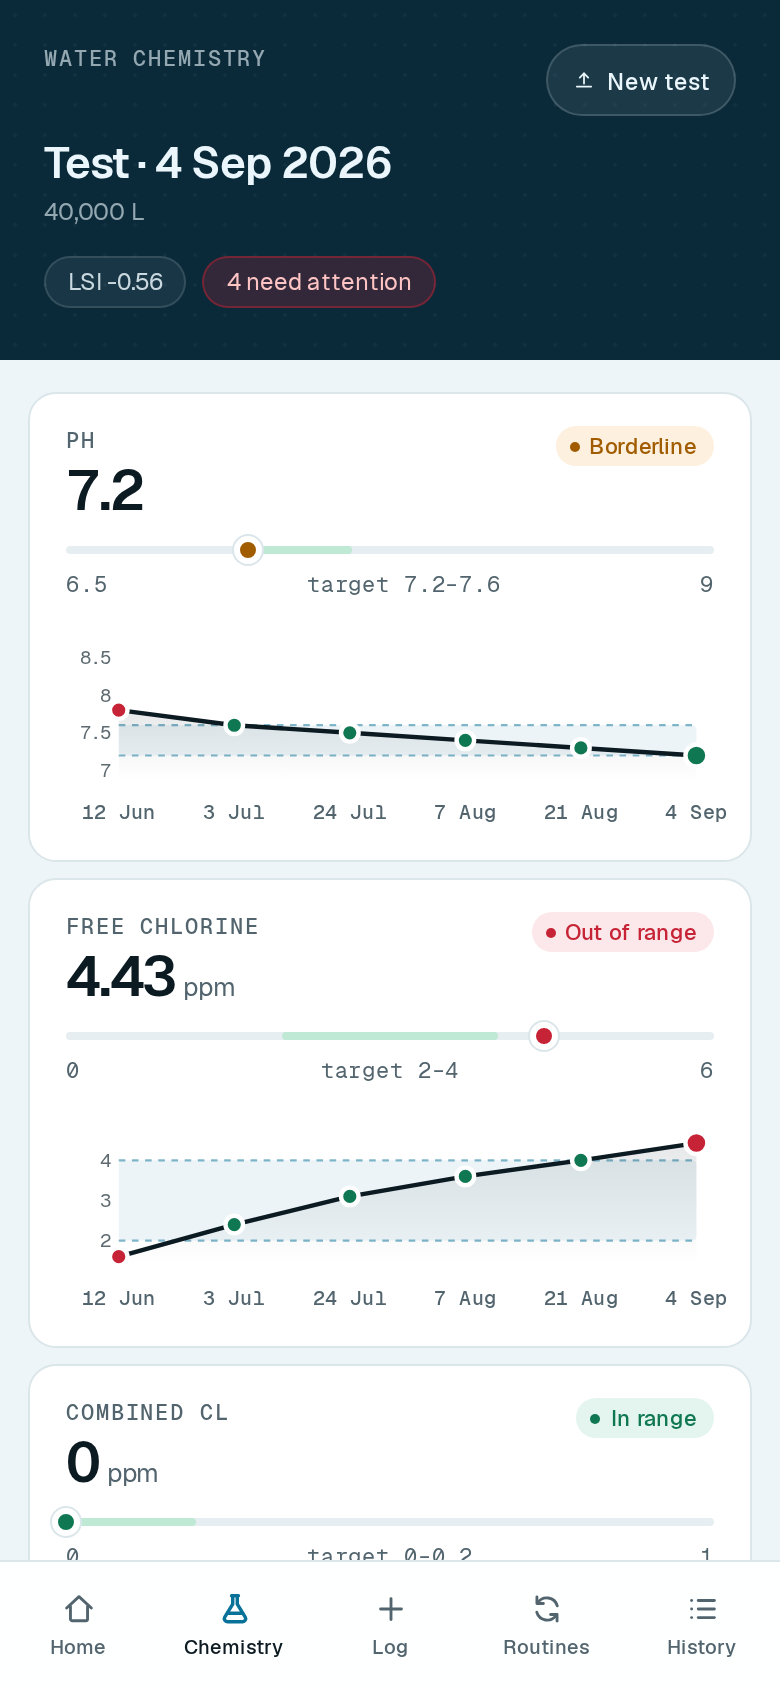
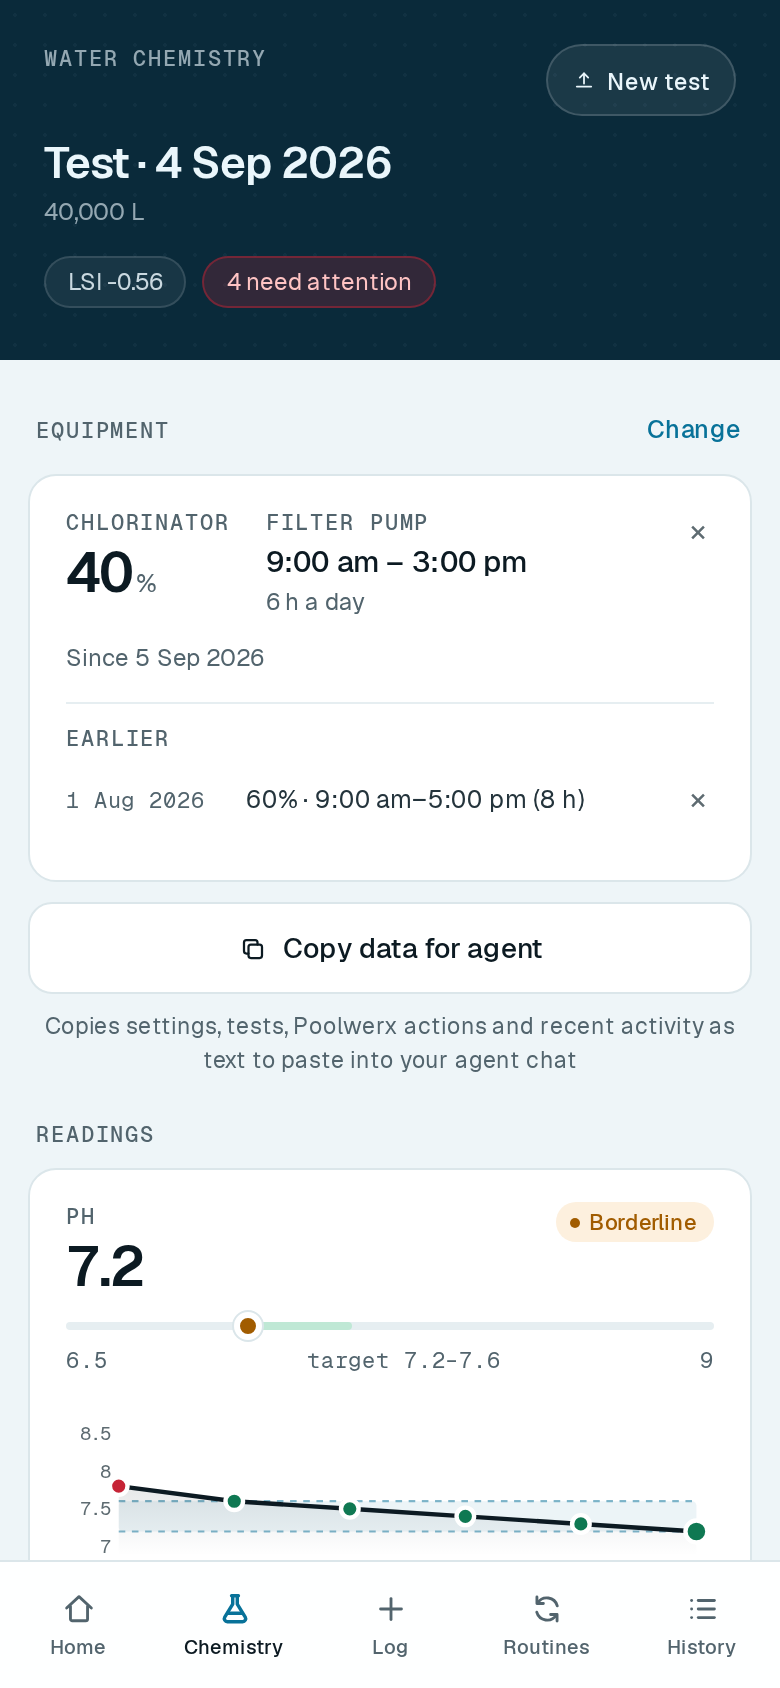
Retake README screenshots for v2.8
Shows the version bump and the new Equipment section on the Chemistry
screen, with sample chlorinator and filter settings.

Claude-Session: https://claude.ai/code/session_01LEm6yt5G7UfvhJk7zqNvjP

diff --git a/README.md b/README.md
@@ -12,7 +12,7 @@ recurring maintenance (routines), and keeps a full activity history.
 <table>
   <tr>
     <td align="center" valign="top" width="33%"><img src="docs/screenshots/home.png" width="250" alt="Home screen: last test date, count of things needing attention, pH trend over the last six tests, and the action list with due routines and Poolwerx recommendations"><br><b>Home</b><br>What needs doing, and the pH trend</td>
-    <td align="center" valign="top" width="33%"><img src="docs/screenshots/chemistry.png" width="250" alt="Chemistry screen: each reading against its target range, with a trend chart per metric"><br><b>Chemistry</b><br>Every reading against its target, with trends</td>
+    <td align="center" valign="top" width="33%"><img src="docs/screenshots/chemistry.png" width="250" alt="Chemistry screen: equipment settings (chlorinator output and filter pump times) with Copy data for agent, then each reading against its target range with a trend chart"><br><b>Chemistry</b><br>Equipment settings, and every reading against its target</td>
     <td align="center" valign="top" width="33%"><img src="docs/screenshots/routines.png" width="250" alt="Routines screen: reminders toggle and recurring tasks such as running the pool cleaner, water tests, weekly acid and backwashing"><br><b>Routines</b><br>Recurring tasks and reminders</td>
   </tr>
   <tr>
@@ -22,8 +22,9 @@ recurring maintenance (routines), and keeps a full activity history.
   </tr>
 </table>
 
-Taken from the built app at phone size (390 × 844). The latest test is the
-published 4 Sep 2026 report; the earlier tests and log entries are sample data.
+Taken from the built app (v2.8) at phone size (390 × 844). The latest test is
+the published 4 Sep 2026 report; the earlier tests, log entries and equipment
+settings are sample data.
 
 ## Source layout
 
